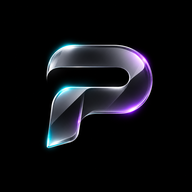
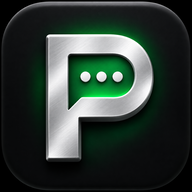
Update web launch page for PURE 0.12.0

diff --git a/index.html b/index.html
@@ -1,28 +1,28 @@
 <!doctype html><html lang="th"><head><meta charset="utf-8"><meta name="viewport" content="width=device-width,initial-scale=1,viewport-fit=cover">
 <title data-i18n="meta.title">PURE — แชต โทร วิดีโอคอล by PureFxAi</title><meta name="description" data-i18n-meta="meta.desc" content="PURE แอป Android สำหรับแชต โทรเสียง วิดีโอคอล สัตว์เลี้ยง 2D และผู้ช่วย AI โดย PureFxAi">
-<link rel="icon" type="image/png" sizes="32x32" href="assets/favicon-32.png"><link rel="apple-touch-icon" href="assets/favicon-180.png"><meta name="theme-color" content="#000000"><meta property="og:title" data-i18n-meta="meta.title" content="PURE — แชต โทร วิดีโอคอล by PureFxAi"><meta property="og:description" data-i18n-meta="pop.p" content="แชต โทรเสียง วิดีโอคอล สัตว์เลี้ยง 2D และผู้ช่วย AI ในแอปเดียว"><meta property="og:image" content="https://call.purefxai.store/assets/og.png"><meta name="twitter:card" content="summary_large_image"><link rel="preconnect" href="https://fonts.googleapis.com"><link href="https://fonts.googleapis.com/css2?family=Prompt:wght@300;400;600;800&display=swap" rel="stylesheet"><link rel="stylesheet" href="style.css?v=6"></head><body>
+<link rel="icon" type="image/png" sizes="32x32" href="assets/favicon-32.png"><link rel="apple-touch-icon" href="assets/favicon-180.png"><meta name="theme-color" content="#000000"><meta property="og:title" data-i18n-meta="meta.title" content="PURE — แชต โทร วิดีโอคอล by PureFxAi"><meta property="og:description" data-i18n-meta="pop.p" content="แชต โทรเสียง วิดีโอคอล สัตว์เลี้ยง 2D และผู้ช่วย AI ในแอปเดียว"><meta property="og:image" content="https://call.purefxai.store/assets/og.png"><meta name="twitter:card" content="summary_large_image"><link rel="preconnect" href="https://fonts.googleapis.com"><link href="https://fonts.googleapis.com/css2?family=Prompt:wght@300;400;600;800&display=swap" rel="stylesheet"><link rel="stylesheet" href="style.css?v=12"></head><body>
 <div id="progress" aria-hidden="true"></div><canvas id="aurora" aria-hidden="true"></canvas><div class="bg"><span class="orb o1"></span><span class="orb o2"></span><span class="orb o3"></span></div>
-<nav class="nav glass"><a class="brand" href="#"><img src="assets/icon-192.png" alt="">PURE</a><div class="links"><a href="#features" data-i18n="nav.features">ฟีเจอร์</a><a href="#install" data-i18n="nav.install">วิธีติดตั้ง</a><a href="#faq" data-i18n="nav.faq">คำถาม</a></div><div class="nav-r"><button id="lang" class="lang" type="button" aria-label="Switch language / เปลี่ยนภาษา"><span data-l="th">TH</span><span data-l="en">EN</span></button><a class="btn sm" href="https://github.com/purefxaidev/purecall-web/releases/download/v0.10.1/PURE-0.10.1.apk" data-i18n="nav.dl">ดาวน์โหลด</a></div></nav>
-<header class="hero"><div class="hero-text reveal"><span class="pill" data-i18n="hero.pill">เวอร์ชัน 0.10.1 · Android 8+</span><h1 data-i18n="hero.h1">คุยใกล้กัน<br><span class="grad">ทุกที่ ทุกเวลา</span></h1><p data-i18n="hero.p">PURE รวมแชต โทรเสียง วิดีโอคอล สัตว์เลี้ยง 2D และผู้ช่วย AI ไว้ในแอปเดียว ส่งข้อความหากันแบบออฟไลน์ผ่าน Wi-Fi หรือ Bluetooth ก็ได้</p><div class="cta"><a class="btn big" href="https://github.com/purefxaidev/purecall-web/releases/download/v0.10.1/PURE-0.10.1.apk"><svg viewBox="0 0 24 24"><path d="M12 3v12m0 0-5-5m5 5 5-5M4 21h16" stroke="currentColor" stroke-width="2.2" fill="none" stroke-linecap="round"/></svg><span data-i18n="hero.cta">ดาวน์โหลด APK ฟรี</span></a><a class="btn ghost" href="#features" data-i18n="hero.more">ดูฟีเจอร์</a></div><small class="muted" data-i18n="hero.note">ไฟล์ PURE-0.10.1.apk · รุ่น release (เซ็นแล้ว) · ติดตั้งเองได้โดยไม่ต้องผ่าน Google Play</small></div>
-<div class="hero-art reveal"><div class="hero-visual"><video class="anim " autoplay muted loop playsinline preload="metadata" poster="assets/anim/pure-call-poster.jpg" width="1280" height="704" aria-hidden="true"><source src="assets/anim/pure-call.webm" type="video/webm"><source src="assets/anim/pure-call.mp4" type="video/mp4"></video></div></div></header>
+<nav class="nav glass"><a class="brand" href="#"><img src="assets/icon-192.png" alt="">PURE</a><div class="links"><a href="#features" data-i18n="nav.features">ฟีเจอร์</a><a href="#install" data-i18n="nav.install">วิธีติดตั้ง</a><a href="#faq" data-i18n="nav.faq">คำถาม</a></div><div class="nav-r"><a class="btn sm web-app-link is-loading" data-web-app href="#web-app" aria-disabled="true"><svg class="web-entry-icon" viewBox="0 0 24 24" aria-hidden="true"><path d="M4 5.5h16v10H4zM8 19h8m-4-3.5V19M8 9h8m-8 3h5"/></svg><span data-web-label data-th="เข้าใช้เว็บ" data-en="Open web app">เข้าใช้เว็บ</span></a><button id="lang" class="lang" type="button" aria-label="Switch language / เปลี่ยนภาษา"><span data-l="th">TH</span><span data-l="en">EN</span></button><a class="btn sm" href="https://github.com/pureaicom-gif/PURECALL/releases/download/v0.12.0/PURE-0.12.0.apk" data-i18n="nav.dl">ดาวน์โหลด</a></div></nav>
+<header class="hero"><div class="hero-text reveal"><span class="pill" data-i18n="hero.pill">เวอร์ชัน 0.12.0 · Android 8+</span><h1 data-i18n="hero.h1">คุยใกล้กัน<br><span class="grad">ทุกที่ ทุกเวลา</span></h1><p data-i18n="hero.p">PURE รวมแชต โทรเสียง วิดีโอคอล สัตว์เลี้ยง 2D และผู้ช่วย AI ไว้ในแอปเดียว ส่งข้อความหากันแบบออฟไลน์ผ่าน Wi-Fi หรือ Bluetooth ก็ได้</p><div class="cta"><a class="btn big web-app-link is-loading" data-web-app href="#web-app" aria-disabled="true"><svg class="web-entry-icon" viewBox="0 0 24 24" aria-hidden="true"><path d="M4 5.5h16v10H4zM8 19h8m-4-3.5V19M8 9h8m-8 3h5"/></svg><span data-web-label data-th="เข้าใช้ PURE บนเว็บ" data-en="Use PURE on the web">เข้าใช้ PURE บนเว็บ</span></a><a class="btn ghost" href="https://github.com/pureaicom-gif/PURECALL/releases/download/v0.12.0/PURE-0.12.0.apk"><svg class="download-icon" viewBox="0 0 24 24" aria-hidden="true"><path d="M12 3v12m0 0-5-5m5 5 5-5M4 21h16"/></svg><span data-i18n="hero.cta">ดาวน์โหลด APK ฟรี</span></a><a class="btn ghost" href="#features" data-i18n="hero.more">ดูฟีเจอร์</a></div><small class="muted" data-i18n="hero.note">ไฟล์ PURE-0.12.0.apk · รุ่น release (เซ็นแล้ว) · ติดตั้งเองได้โดยไม่ต้องผ่าน Google Play</small></div>
+<div class="hero-art reveal"><div class="hero-visual"><video class="anim " autoplay muted loop playsinline preload="metadata" poster="assets/img/pure-hero.webp" width="1280" height="704" aria-hidden="true"><source src="assets/anim/pure-call.webm" type="video/webm"><source src="assets/anim/pure-call.mp4" type="video/mp4"></video></div></div></header>
 <section id="features"><h2 class="reveal" data-i18n="f.h2">ทุกอย่างที่ต้องใช้ <span class="grad">ในแอปเดียว</span></h2><div class="grid">
-<div class="card glass reveal"><i>💬</i><h3 data-i18n="f1.h">แชต &amp; ส่งไฟล์</h3><p data-i18n="f1.p">แชตส่วนตัวและกลุ่ม ส่งไฟล์ สติกเกอร์ และแปลข้อความอัตโนมัติ 8 ภาษา</p></div>
-<div class="card glass reveal"><i>📞</i><h3 data-i18n="f2.h">โทรเสียง &amp; วิดีโอคอล</h3><p data-i18n="f2.p">โทรหาเพื่อนผ่าน WebRTC ทั้งเสียงและวิดีโอ</p></div>
-<div class="card glass reveal"><i>🐾</i><h3 data-i18n="f3.h">สัตว์เลี้ยง 2D</h3><p data-i18n="f3.p">เพื่อนตัวน้อย 16 สายพันธุ์ ทักทายด้วยเสียงและท่าทาง</p></div>
-<div class="card glass reveal"><i>✨</i><h3 data-i18n="f4.h">ผู้ช่วย Gemini AI</h3><p data-i18n="f4.p">ผู้ช่วย AI และคุยด้วยเสียงแบบสด เลือกเปิดใช้เองได้</p></div>
-<div class="card glass reveal"><i>🎨</i><h3 data-i18n="f5.h">Photo Studio</h3><p data-i18n="f5.p">ปรับแสง สี คอนทราสต์ และหมุนรูปบนเครื่องก่อนส่ง</p></div>
-<div class="card glass reveal"><i>🎬</i><h3 data-i18n="f6.h">ไทม์ไลน์ &amp; Reels</h3><p data-i18n="f6.p">โพสต์รูป วิดีโอ Reels กดถูกใจ และคอมเมนต์</p></div>
-<div class="card glass reveal"><i>📷</i><h3 data-i18n="f7.h">แอดเพื่อนด้วย QR</h3><p data-i18n="f7.p">สแกน QR โค้ดเพื่อเพิ่มเพื่อนได้ทันที</p></div>
-<div class="card glass reveal"><i>📡</i><h3 data-i18n="f8.h">ข้อความออฟไลน์</h3><p data-i18n="f8.p">ส่งข้อความเข้ารหัสผ่าน Wi-Fi/ฮอตสปอต หรือ Bluetooth กับเครื่องที่มี PURE</p></div>
-<div class="card glass reveal"><i>🖥</i><h3 data-i18n="f9.h">รันเซิร์ฟเวอร์เองได้</h3><p data-i18n="f9.p">ติดตั้งเซิร์ฟเวอร์ของคุณเองด้วย Docker หรือ Cloudflare Tunnel</p></div></div></section>
+<div class="card glass reveal"><svg class="feature-icon" viewBox="0 0 24 24" aria-hidden="true"><path d="M20 11.5a7.5 7.5 0 0 1-7.5 7.5H6l-3 2v-6a7.5 7.5 0 1 1 17-3.5Z"/><path d="M7 10h9M7 14h6"/></svg><h3 data-i18n="f1.h">แชต &amp; ส่งไฟล์</h3><p data-i18n="f1.p">แชตส่วนตัวและกลุ่ม ส่งไฟล์ สติกเกอร์ และแปลข้อความอัตโนมัติ 8 ภาษา</p></div>
+<div class="card glass reveal"><svg class="feature-icon" viewBox="0 0 24 24" aria-hidden="true"><path d="M7 3H4a1 1 0 0 0-1 1c0 9.4 7.6 17 17 17a1 1 0 0 0 1-1v-3l-5-2-2 3a15 15 0 0 1-7-7l3-2-3-6Z"/></svg><h3 data-i18n="f2.h">โทรเสียง &amp; วิดีโอคอล</h3><p data-i18n="f2.p">โทรหาเพื่อนผ่าน WebRTC ทั้งเสียงและวิดีโอ</p></div>
+<div class="card glass reveal"><svg class="feature-icon" viewBox="0 0 24 24" aria-hidden="true"><path d="M12 20c-3.4 0-6.5-1.2-6.5-3.8 0-2.3 2.8-5.8 6.5-5.8s6.5 3.5 6.5 5.8C18.5 18.8 15.4 20 12 20Z"/><path d="M5.1 11.7c-1.5 0-2.4-1.6-2-3.2.3-1.2 1.2-1.9 2.1-1.7 1.3.3 1.8 2.1 1.2 3.8-.3.7-.7 1.1-1.3 1.1Zm4-2.2c-1.3 0-2-1.8-1.4-3.4.4-1.2 1.4-1.8 2.2-1.4 1.1.5 1.2 2.3.4 3.8-.4.7-.8 1-1.2 1Zm5.8 0c-1.3 0-1.7-2-.7-3.6.7-1.1 1.8-1.4 2.5-.8.9.8.5 2.5-.7 3.7-.5.5-.9.7-1.1.7Zm4 2.2c-1.2 0-1.6-1.8-.8-3.1.6-1 1.6-1.3 2.3-.7.7.7.5 2.1-.4 3.2-.4.4-.8.6-1.1.6Z"/></svg><h3 data-i18n="f3.h">สัตว์เลี้ยง 2D</h3><p data-i18n="f3.p">เพื่อนตัวน้อย 16 สายพันธุ์ ทักทายด้วยเสียงและท่าทาง</p></div>
+<div class="card glass reveal"><svg class="feature-icon" viewBox="0 0 24 24" aria-hidden="true"><rect x="4" y="4" width="16" height="16" rx="4"/><path d="M8 9h8M8 12h5M8 15h3m5-1 1 1 2-3"/></svg><h3 data-i18n="f4.h">ผู้ช่วย PURE AI</h3><p data-i18n="f4.p">ผู้ช่วยอัจฉริยะสำหรับแชต แปลภาษา และช่วยงานในแอป</p></div>
+<div class="card glass reveal"><svg class="feature-icon" viewBox="0 0 24 24" aria-hidden="true"><rect x="3" y="4" width="18" height="16" rx="3"/><circle cx="8" cy="9" r="1.2"/><path d="m5 17 5-5 3 3 2-2 4 4"/></svg><h3 data-i18n="f5.h">Photo Studio</h3><p data-i18n="f5.p">ปรับแสง สี คอนทราสต์ และหมุนรูปบนเครื่องก่อนส่ง</p></div>
+<div class="card glass reveal"><svg class="feature-icon" viewBox="0 0 24 24" aria-hidden="true"><rect x="3" y="5" width="18" height="14" rx="3"/><path d="m10 9 5 3-5 3z"/></svg><h3 data-i18n="f6.h">ไทม์ไลน์ &amp; Reels</h3><p data-i18n="f6.p">โพสต์รูป วิดีโอ Reels กดถูกใจ และคอมเมนต์</p></div>
+<div class="card glass reveal"><svg class="feature-icon" viewBox="0 0 24 24" aria-hidden="true"><path d="M4 4h6v6H4zM14 4h6v6h-6zM4 14h6v6H4zM14 14h2v2h-2zM18 14h2v6h-6v-2"/></svg><h3 data-i18n="f7.h">แอดเพื่อนด้วย QR</h3><p data-i18n="f7.p">สแกน QR โค้ดเพื่อเพิ่มเพื่อนได้ทันที</p></div>
+<div class="card glass reveal"><svg class="feature-icon" viewBox="0 0 24 24" aria-hidden="true"><path d="M5.6 9.6a9 9 0 0 0 0 4.8m3-7.8a13 13 0 0 0 0 10.8m6.8-10.8a13 13 0 0 1 0 10.8m3-7.8a9 9 0 0 1 0 4.8M12 12h.01M12 12l6-6"/></svg><h3 data-i18n="f8.h">ข้อความออฟไลน์</h3><p data-i18n="f8.p">ส่งข้อความเข้ารหัสผ่าน Wi-Fi/ฮอตสปอต หรือ Bluetooth กับเครื่องที่มี PURE</p></div>
+<div class="card glass reveal"><svg class="feature-icon" viewBox="0 0 24 24" aria-hidden="true"><rect x="3" y="4" width="18" height="13" rx="2"/><path d="M8 21h8m-4-4v4M7 8h10m-10 4h10"/></svg><h3 data-i18n="f9.h">รันเซิร์ฟเวอร์เองได้</h3><p data-i18n="f9.p">ติดตั้งเซิร์ฟเวอร์ของคุณเองด้วย Docker หรือ Cloudflare Tunnel</p></div></div></section>
 <section class="showcase">
 <div class="row reveal"><div class="ph wide art" data-label="แชต & โทร"><img src="assets/img/chat.webp" width="1000" height="1000" alt="" loading="lazy"></div><div><h2 data-i18n="s1.h">คุยได้ <span class="grad">ทุกรูปแบบ</span></h2><p data-i18n="s1.p">ข้อความ ไฟล์ สติกเกอร์ เสียง และวิดีโอ ข้อความที่ส่งไม่ออกตอนเน็ตหลุดจะรอส่งให้เองเมื่อเน็ตกลับมา</p></div></div>
 <div class="row rev reveal"><div class="ph wide art" data-label="สัตว์เลี้ยง 2D"><video class="anim " autoplay muted loop playsinline preload="metadata" poster="assets/anim/pure-cat-poster.jpg"   aria-hidden="true"><source src="assets/anim/pure-cat.webm" type="video/webm"><source src="assets/anim/pure-cat.mp4" type="video/mp4"></video></div><div><h2 data-i18n="s2.h">เพื่อนตัวน้อย <span class="grad">ที่ทักทายคุณ</span></h2><p data-i18n="s2.p">เลือกสัตว์เลี้ยงจาก 16 สายพันธุ์ มีเสียงและท่าทางทักทาย</p></div></div>
-<div class="row reveal"><div class="ph wide art" data-label="Gemini AI"><img src="assets/img/ai.webp" width="1000" height="1000" alt="" loading="lazy"></div><div><h2 data-i18n="s3.h">AI <span class="grad">เมื่อคุณต้องการ</span></h2><p data-i18n="s3.p">Gemini ช่วยตอบ แปล และปรับรูป ภาพจะส่งให้ Google เฉพาะเมื่อคุณกดใช้เท่านั้น</p></div></div>
+<div class="row reveal"><div class="ph wide art" data-label="PURE AI"><img src="assets/img/ai.webp" width="1000" height="1000" alt="" loading="lazy"></div><div><h2 data-i18n="s3.h">AI <span class="grad">เมื่อคุณต้องการ</span></h2><p data-i18n="s3.p">ผู้ช่วย PURE ช่วยตอบ แปล และทำงานตามบริบทที่คุณเลือกใช้</p></div></div>
 <div class="row rev reveal"><div class="ph wide art" data-label="ใกล้กัน ไม่ต้องใช้เน็ต"><img src="assets/img/nearby.webp" width="1000" height="1000" alt="" loading="lazy"></div><div><h2 data-i18n="s4.h">ไม่มีเน็ต <span class="grad">ก็คุยได้</span></h2><p data-i18n="s4.p">ส่งข้อความเข้ารหัสหาคนใกล้ๆ ผ่าน Wi-Fi หรือ Bluetooth</p></div></div></section>
-<section id="soon"><h2 class="reveal" data-i18n="soon.h2">ใหม่ใน <span class="grad">PURE 0.10</span></h2><p class="center muted reveal" data-i18n="soon.p">ฟีเจอร์ใหม่ในรุ่น 0.10.1</p><div class="soon-grid">
-<div class="soon-card glass reveal"><span class="pill" data-i18n="soon.badge">ใหม่</span><div class="soon-img"><img src="assets/img/native-chats.webp" width="720" height="1560" alt="หน้าแชตแบบ native ของ PURE 0.10.1" loading="lazy"></div><h3 data-i18n="soon1.h">แอป native ทั้งตัว</h3><p data-i18n="soon1.p">แชต เพื่อน ไทม์ไลน์ โปรไฟล์ เขียนใหม่ด้วย Jetpack Compose เปิดไวและลื่นกว่าเดิม</p></div>
-<div class="soon-card glass reveal"><span class="pill" data-i18n="soon.badge">ใหม่</span><div class="soon-img"><img src="assets/img/clean-layout.webp" width="720" height="1599" alt="หน้าแชตเลย์เอาต์ใหม่ไม่ซ้อนกัน" loading="lazy"></div><h3 data-i18n="soon2.h">หน้าจอสะอาด ไม่ซ้อนกัน</h3><p data-i18n="soon2.p">ทางลัด AI รวมเป็นแถวเดียว ตั้งค่าภาษาและการแจ้งเตือนย้ายไปหน้าตั้งค่า เชื่อมต่อเซิร์ฟเวอร์อัตโนมัติ</p></div></div></section>
+<section id="soon"><h2 class="reveal" data-i18n="soon.h2">ใหม่ใน <span class="grad">PURE 0.12</span></h2><p class="center muted reveal" data-i18n="soon.p">ฟีเจอร์ใหม่ในรุ่น 0.12.0</p><div class="soon-grid">
+<div class="soon-card glass reveal"><span class="pill" data-i18n="soon.badge">ใหม่</span><div class="soon-img"><img src="assets/img/native-chats.webp" width="720" height="1560" alt="หน้าแชตแบบ native ของ PURE 0.12.0" loading="lazy"></div><h3 data-i18n="soon1.h">แบรนด์ PURE โฉมใหม่</h3><p data-i18n="soon1.p">ปรับไอคอนแอปและหน้าเว็บให้เป็นภาพลักษณ์ PURE ชุดเดียวกัน</p></div>
+<div class="soon-card glass reveal"><span class="pill" data-i18n="soon.badge">ใหม่</span><div class="soon-img"><img src="assets/img/clean-layout.webp" width="720" height="1599" alt="หน้าแชตเลย์เอาต์ใหม่ไม่ซ้อนกัน" loading="lazy"></div><h3 data-i18n="soon2.h">วิดีโอ AI และเสียงพูด</h3><p data-i18n="soon2.p">เพิ่มขั้นตอนสร้างวิดีโอด้วย ComfyUI ฝั่งเซิร์ฟเวอร์ และปรับระบบสำรองเสียงพูดให้เสถียรขึ้น</p></div></div></section>
 <section id="pets"><h2 class="reveal" data-i18n="pet.h2">น้องแมว PURE <span class="grad">มีชีวิต</span></h2><p class="center muted reveal" data-i18n="pet.p">สัตว์เลี้ยงที่ทักทาย ตอบสนองเมื่อมีสายเข้า และเติบโตไปกับคุณ</p><div class="pet-grid"><figure class="pet-card reveal"><video class="anim pet-vid" muted loop playsinline preload="none" poster="assets/pets/pet-idle-poster.jpg?v=2" width="540" height="540" aria-hidden="true"><source src="assets/pets/pet-idle.webm?v=2" type="video/webm"><source src="assets/pets/pet-idle.mp4?v=2" type="video/mp4"></video><figcaption data-i18n="pet.idle">เล่นสบายๆ</figcaption></figure><figure class="pet-card reveal"><video class="anim pet-vid" muted loop playsinline preload="none" poster="assets/pets/pet-jump-poster.jpg?v=2" width="540" height="540" aria-hidden="true"><source src="assets/pets/pet-jump.webm?v=2" type="video/webm"><source src="assets/pets/pet-jump.mp4?v=2" type="video/mp4"></video><figcaption data-i18n="pet.jump">ดีใจกระโดด</figcaption></figure><figure class="pet-card reveal"><video class="anim pet-vid" muted loop playsinline preload="none" poster="assets/pets/pet-wave-poster.jpg?v=2" width="540" height="540" aria-hidden="true"><source src="assets/pets/pet-wave.webm?v=2" type="video/webm"><source src="assets/pets/pet-wave.mp4?v=2" type="video/mp4"></video><figcaption data-i18n="pet.wave">โบกมือทักทาย</figcaption></figure><figure class="pet-card reveal"><video class="anim pet-vid" muted loop playsinline preload="none" poster="assets/pets/pet-call-poster.jpg?v=2" width="540" height="540" aria-hidden="true"><source src="assets/pets/pet-call.webm?v=2" type="video/webm"><source src="assets/pets/pet-call.mp4?v=2" type="video/mp4"></video><figcaption data-i18n="pet.call">มีสายเข้า!</figcaption></figure><figure class="pet-card reveal"><video class="anim pet-vid" muted loop playsinline preload="none" poster="assets/pets/pet-sleep-poster.jpg?v=2" width="540" height="540" aria-hidden="true"><source src="assets/pets/pet-sleep.webm?v=2" type="video/webm"><source src="assets/pets/pet-sleep.mp4?v=2" type="video/mp4"></video><figcaption data-i18n="pet.sleep">หลับปุ๋ย</figcaption></figure><figure class="pet-card reveal"><video class="anim pet-vid" muted loop playsinline preload="none" poster="assets/pets/pet-evolve-poster.jpg?v=2" width="540" height="540" aria-hidden="true"><source src="assets/pets/pet-evolve.webm?v=2" type="video/webm"><source src="assets/pets/pet-evolve.mp4?v=2" type="video/mp4"></video><figcaption data-i18n="pet.evolve">วิวัฒนาการ</figcaption></figure></div></section>
 <section id="install"><h2 class="reveal" data-i18n="i.h2">ติดตั้งใน <span class="grad">3 ขั้นตอน</span></h2><div class="steps">
 <div class="step glass reveal"><b>1</b><h3 data-i18n="i1.h">ดาวน์โหลด APK</h3><p data-i18n="i1.p">กดปุ่มดาวน์โหลดบนมือถือ Android 8 ขึ้นไป</p></div>
@@ -34,12 +34,12 @@
 <details class="glass reveal"><summary data-i18n="q3.q">ปลอดภัยไหม?</summary><p data-i18n="q3.a">ข้อความออฟไลน์เข้ารหัส และภาพจะไม่ถูกส่งให้ AI เว้นแต่คุณกดใช้เอง</p></details>
 <details class="glass reveal"><summary data-i18n="q4.q">ต้องมีเซิร์ฟเวอร์ไหม?</summary><p data-i18n="q4.a">แอปเชื่อมต่อเซิร์ฟเวอร์ PURE สำหรับแชตและโทร คุณรันเซิร์ฟเวอร์เองได้ ส่วนข้อความใกล้ตัวผ่าน Wi-Fi/Bluetooth ใช้ได้โดยไม่ต้องมีอินเทอร์เน็ต</p></details>
 <details class="glass reveal"><summary data-i18n="q5.q">รองรับ iPhone ไหม?</summary><p data-i18n="q5.a">ตอนนี้มีเฉพาะ Android 8 ขึ้นไป</p></details></div></section>
-<section class="final glass reveal"><div class="logo-loop"><video class="anim " autoplay muted loop playsinline preload="metadata" poster="assets/anim/pure-logo-poster.jpg" width="640" height="640" aria-hidden="true"><source src="assets/anim/pure-logo.webm" type="video/webm"><source src="assets/anim/pure-logo.mp4" type="video/mp4"></video></div><h2 data-i18n="fin.h">พร้อมคุยแล้วหรือยัง?</h2><a class="btn big" href="https://github.com/purefxaidev/purecall-web/releases/download/v0.10.1/PURE-0.10.1.apk" data-i18n="fin.cta">ดาวน์โหลด PURE 0.10.1</a></section>
+<section class="final glass reveal"><div class="logo-loop"><video class="anim " autoplay muted loop playsinline preload="metadata" poster="assets/anim/pure-logo-poster.jpg" width="640" height="640" aria-hidden="true"><source src="assets/anim/pure-logo.webm" type="video/webm"><source src="assets/anim/pure-logo.mp4" type="video/mp4"></video></div><h2 data-i18n="fin.h">พร้อมคุยแล้วหรือยัง?</h2><a class="btn big" href="https://github.com/pureaicom-gif/PURECALL/releases/download/v0.12.0/PURE-0.12.0.apk" data-i18n="fin.cta">ดาวน์โหลด PURE 0.12.0</a></section>
 <footer><img src="assets/icon-192.png" alt=""> © PureFxAi · PURE</footer>
 <div id="promo" class="promo" hidden><div class="promo-back" data-close></div><div class="promo-box glass" role="dialog" aria-modal="true" aria-labelledby="promo-h" tabindex="-1">
 <button class="promo-x" type="button" data-close data-i18n-aria="pop.close" aria-label="ปิด">×</button>
-<div class="promo-art"><img src="assets/img/hero.webp" alt="" width="1600" height="900" loading="lazy"><img class="promo-logo" src="assets/favicon-512.png" alt="PURE" width="512" height="512"></div>
+<div class="promo-art"><img src="assets/img/pure-hero.webp" alt="" width="1280" height="900" loading="lazy"><img class="promo-logo" src="assets/favicon-512.png" alt="PURE" width="512" height="512"></div>
 <span class="pill" data-i18n="pop.badge">ฟรีสำหรับ Android</span><h2 id="promo-h" data-i18n="pop.h">ดาวน์โหลด PURE ฟรี</h2><p data-i18n="pop.p">แชต โทรเสียง วิดีโอคอล สัตว์เลี้ยง 2D และผู้ช่วย AI ในแอปเดียว ติดตั้งจากไฟล์ APK ได้เลย</p>
-<div class="promo-cta"><a class="btn" href="https://github.com/purefxaidev/purecall-web/releases/download/v0.10.1/PURE-0.10.1.apk" data-i18n="pop.cta">ดาวน์โหลด APK</a><button class="btn ghost" type="button" data-close data-i18n="pop.later">ไว้ทีหลัง</button></div>
-<a class="promo-soon" href="#soon" data-close data-i18n="pop.soon">ใหม่ใน 0.10: แอป native เร็วขึ้น หน้าจอใหม่ทั้งหมด</a><small class="muted" data-i18n="pop.note">รุ่น release (เซ็นแล้ว) · Android 8+</small></div></div>
-<script src="i18n.js?v=6"></script><script src="main.js?v=6"></script><script src="ads.js?v=6"></script><script src="guide.js?v=6"></script><script src="pets.js?v=2"></script></body></html>
+<div class="promo-cta"><a class="btn web-app-link is-loading" data-web-app href="#web-app" aria-disabled="true"><span data-web-label data-th="เข้าใช้เว็บ" data-en="Open web app">เข้าใช้เว็บ</span></a><a class="btn" href="https://github.com/pureaicom-gif/PURECALL/releases/download/v0.12.0/PURE-0.12.0.apk" data-i18n="pop.cta">ดาวน์โหลด APK</a><button class="btn ghost" type="button" data-close data-i18n="pop.later">ไว้ทีหลัง</button></div>
+<a class="promo-soon" href="#soon" data-close data-i18n="pop.soon">ใหม่ใน 0.12: ไอคอน PURE ใหม่ วิดีโอ AI และระบบเสียงพูดที่เสถียรขึ้น</a><small class="muted" data-i18n="pop.note">รุ่น release (เซ็นแล้ว) · Android 8+</small></div></div>
+<script src="i18n.js?v=12"></script><script src="main.js?v=12"></script><script src="web-entry.js?v=12"></script><script src="ads.js?v=12"></script><script src="guide.js?v=12"></script><script src="pets.js?v=2"></script></body></html>

diff --git a/i18n.js b/i18n.js
@@ -1,1 +1,1 @@
-window.I18N={"th": {"nav.features": "ฟีเจอร์", "nav.install": "วิธีติดตั้ง", "nav.faq": "คำถาม", "nav.dl": "ดาวน์โหลด", "hero.pill": "เวอร์ชัน 0.10.1 · Android 8+", "hero.h1": "คุยใกล้กัน<br><span class=\"grad\">ทุกที่ ทุกเวลา</span>", "hero.p": "PURE รวมแชต โทรเสียง วิดีโอคอล สัตว์เลี้ยง 2D และผู้ช่วย AI ไว้ในแอปเดียว ส่งข้อความหากันแบบออฟไลน์ผ่าน Wi-Fi หรือ Bluetooth ก็ได้", "hero.cta": "ดาวน์โหลด APK ฟรี", "hero.more": "ดูฟีเจอร์", "hero.note": "ไฟล์ PURE-0.10.1.apk · รุ่น release (เซ็นแล้ว) · ติดตั้งเองได้โดยไม่ต้องผ่าน Google Play", "f.h2": "ทุกอย่างที่ต้องใช้ <span class=\"grad\">ในแอปเดียว</span>", "f1.h": "แชต &amp; ส่งไฟล์", "f1.p": "แชตส่วนตัวและกลุ่ม ส่งไฟล์ สติกเกอร์ และแปลข้อความอัตโนมัติ 8 ภาษา", "f2.h": "โทรเสียง &amp; วิดีโอคอล", "f2.p": "โทรหาเพื่อนผ่าน WebRTC ทั้งเสียงและวิดีโอ", "f3.h": "สัตว์เลี้ยง 2D", "f3.p": "เพื่อนตัวน้อย 16 สายพันธุ์ ทักทายด้วยเสียงและท่าทาง", "f4.h": "ผู้ช่วย Gemini AI", "f4.p": "ผู้ช่วย AI และคุยด้วยเสียงแบบสด เลือกเปิดใช้เองได้", "f5.h": "Photo Studio", "f5.p": "ปรับแสง สี คอนทราสต์ และหมุนรูปบนเครื่องก่อนส่ง", "f6.h": "ไทม์ไลน์ &amp; Reels", "f6.p": "โพสต์รูป วิดีโอ Reels กดถูกใจ และคอมเมนต์", "f7.h": "แอดเพื่อนด้วย QR", "f7.p": "สแกน QR โค้ดเพื่อเพิ่มเพื่อนได้ทันที", "f8.h": "ข้อความออฟไลน์", "f8.p": "ส่งข้อความเข้ารหัสผ่าน Wi-Fi/ฮอตสปอต หรือ Bluetooth กับเครื่องที่มี PURE", "f9.h": "รันเซิร์ฟเวอร์เองได้", "f9.p": "ติดตั้งเซิร์ฟเวอร์ของคุณเองด้วย Docker หรือ Cloudflare Tunnel", "s1.h": "คุยได้ <span class=\"grad\">ทุกรูปแบบ</span>", "s1.p": "ข้อความ ไฟล์ สติกเกอร์ เสียง และวิดีโอ ข้อความที่ส่งไม่ออกตอนเน็ตหลุดจะรอส่งให้เองเมื่อเน็ตกลับมา", "s2.h": "เพื่อนตัวน้อย <span class=\"grad\">ที่ทักทายคุณ</span>", "s2.p": "เลือกสัตว์เลี้ยงจาก 16 สายพันธุ์ มีเสียงและท่าทางทักทาย", "s3.h": "AI <span class=\"grad\">เมื่อคุณต้องการ</span>", "s3.p": "Gemini ช่วยตอบ แปล และปรับรูป ภาพจะส่งให้ Google เฉพาะเมื่อคุณกดใช้เท่านั้น", "s4.h": "ไม่มีเน็ต <span class=\"grad\">ก็คุยได้</span>", "s4.p": "ส่งข้อความเข้ารหัสหาคนใกล้ๆ ผ่าน Wi-Fi หรือ Bluetooth", "soon.h2": "ใหม่ใน <span class=\"grad\">PURE 0.10</span>", "soon.p": "ฟีเจอร์ใหม่ในรุ่น 0.10.1", "soon.badge": "ใหม่", "soon1.h": "แอป native ทั้งตัว", "soon1.p": "แชต เพื่อน ไทม์ไลน์ โปรไฟล์ เขียนใหม่ด้วย Jetpack Compose เปิดไวและลื่นกว่าเดิม", "soon2.h": "หน้าจอสะอาด ไม่ซ้อนกัน", "soon2.p": "ทางลัด AI รวมเป็นแถวเดียว ตั้งค่าภาษาและการแจ้งเตือนย้ายไปหน้าตั้งค่า เชื่อมต่อเซิร์ฟเวอร์อัตโนมัติ", "i.h2": "ติดตั้งใน <span class=\"grad\">3 ขั้นตอน</span>", "i1.h": "ดาวน์โหลด APK", "i1.p": "กดปุ่มดาวน์โหลดบนมือถือ Android 8 ขึ้นไป", "i2.h": "อนุญาตแหล่งที่ไม่รู้จัก", "i2.p": "ตั้งค่า › แอป › เบราว์เซอร์ที่ใช้ › ติดตั้งแอปที่ไม่รู้จัก › อนุญาต", "i3.h": "ติดตั้งและเข้าใช้", "i3.p": "เปิดไฟล์ กดติดตั้ง แล้วใส่ที่อยู่เซิร์ฟเวอร์ PURE เพื่อเริ่มใช้งาน", "q.h2": "คำถามที่พบบ่อย", "q1.q": "PURE ฟรีไหม?", "q1.a": "ดาวน์โหลดและติดตั้งได้ฟรี ฟีเจอร์ AI ต้องตั้งค่า Gemini ที่เซิร์ฟเวอร์", "q2.q": "ทำไมไม่มีใน Google Play?", "q2.a": "ตอนนี้เป็นรุ่นทดสอบ แจกเป็นไฟล์ APK โดยตรง", "q3.q": "ปลอดภัยไหม?", "q3.a": "ข้อความออฟไลน์เข้ารหัส และภาพจะไม่ถูกส่งให้ AI เว้นแต่คุณกดใช้เอง", "q4.q": "ต้องมีเซิร์ฟเวอร์ไหม?", "q4.a": "แอปเชื่อมต่อเซิร์ฟเวอร์ PURE สำหรับแชตและโทร คุณรันเซิร์ฟเวอร์เองได้ ส่วนข้อความใกล้ตัวผ่าน Wi-Fi/Bluetooth ใช้ได้โดยไม่ต้องมีอินเทอร์เน็ต", "q5.q": "รองรับ iPhone ไหม?", "q5.a": "ตอนนี้มีเฉพาะ Android 8 ขึ้นไป", "fin.h": "พร้อมคุยแล้วหรือยัง?", "fin.cta": "ดาวน์โหลด PURE 0.10.1", "meta.title": "PURE — แชต โทร วิดีโอคอล by PureFxAi", "meta.desc": "PURE แอป Android สำหรับแชต โทรเสียง วิดีโอคอล สัตว์เลี้ยง 2D และผู้ช่วย AI โดย PureFxAi", "pop.badge": "ฟรีสำหรับ Android", "pop.h": "ดาวน์โหลด PURE ฟรี", "pop.p": "แชต โทรเสียง วิดีโอคอล สัตว์เลี้ยง 2D และผู้ช่วย AI ในแอปเดียว ติดตั้งจากไฟล์ APK ได้เลย", "pop.cta": "ดาวน์โหลด APK", "pop.later": "ไว้ทีหลัง", "pop.soon": "ใหม่ใน 0.10: แอป native เร็วขึ้น หน้าจอใหม่ทั้งหมด", "pop.close": "ปิด", "pop.note": "รุ่น release (เซ็นแล้ว) · Android 8+", "pet.h2": "น้องแมว PURE <span class=\"grad\">มีชีวิต</span>", "pet.p": "สัตว์เลี้ยงที่ทักทาย ตอบสนองเมื่อมีสายเข้า และเติบโตไปกับคุณ", "pet.idle": "เล่นสบายๆ", "pet.jump": "ดีใจกระโดด", "pet.wave": "โบกมือทักทาย", "pet.call": "มีสายเข้า!", "pet.sleep": "หลับปุ๋ย", "pet.evolve": "วิวัฒนาการ"}, "en": {"nav.features": "Features", "nav.install": "Install", "nav.faq": "FAQ", "nav.dl": "Download", "hero.pill": "Version 0.10.1 · Android 8+", "hero.h1": "Stay close<br><span class=\"grad\">anywhere, anytime</span>", "hero.p": "PURE brings chat, voice calls, video calls, 2D pets and an AI assistant together in one app. You can even message each other offline over Wi-Fi or Bluetooth.", "hero.cta": "Download free APK", "hero.more": "See features", "hero.note": "PURE-0.10.1.apk · signed release build · install directly, no Google Play needed", "f.h2": "Everything you need <span class=\"grad\">in one app</span>", "f1.h": "Chat &amp; files", "f1.p": "Private and group chats, file sharing, stickers and automatic translation in 8 languages", "f2.h": "Voice &amp; video calls", "f2.p": "Call friends with voice or video over WebRTC", "f3.h": "2D pets", "f3.p": "16 little companions that greet you with sounds and animations", "f4.h": "Gemini AI assistant", "f4.p": "An AI assistant with live voice chat, opt-in only", "f5.h": "Photo Studio", "f5.p": "Adjust brightness, color, contrast and rotation on-device before sending", "f6.h": "Timeline &amp; Reels", "f6.p": "Post photos, videos and Reels, with likes and comments", "f7.h": "Add friends by QR", "f7.p": "Scan a QR code to add a friend instantly", "f8.h": "Offline messages", "f8.p": "Send encrypted messages over Wi-Fi/hotspot or Bluetooth to nearby devices running PURE", "f9.h": "Self-hostable server", "f9.p": "Run your own server with Docker or Cloudflare Tunnel", "s1.h": "Talk <span class=\"grad\">your way</span>", "s1.p": "Text, files, stickers, voice and video. Messages that fail while you are offline are sent automatically when you reconnect.", "s2.h": "A little friend <span class=\"grad\">who says hi</span>", "s2.p": "Pick from 16 pets, each with its own greeting sounds and moves", "s3.h": "AI <span class=\"grad\">when you want it</span>", "s3.p": "Gemini helps you reply, translate and edit photos. Images are sent to Google only when you choose to use it.", "s4.h": "No internet? <span class=\"grad\">Still talk</span>", "s4.p": "Send encrypted messages to people nearby over Wi-Fi or Bluetooth", "soon.h2": "New in <span class=\"grad\">PURE 0.10</span>", "soon.p": "New features in 0.10.1", "soon.badge": "New", "soon1.h": "Fully native app", "soon1.p": "Chats, friends, timeline and profile rebuilt in Jetpack Compose — faster launch, smoother scrolling", "soon2.h": "Clean, uncluttered screens", "soon2.p": "AI shortcuts in one compact row, language & notifications moved to Settings, automatic server connection", "i.h2": "Install in <span class=\"grad\">3 steps</span>", "i1.h": "Download the APK", "i1.p": "Tap Download on a phone running Android 8 or later", "i2.h": "Allow unknown sources", "i2.p": "Settings › Apps › your browser › Install unknown apps › Allow", "i3.h": "Install and sign in", "i3.p": "Open the file, tap Install, then enter a PURE server address to get started", "q.h2": "FAQ", "q1.q": "Is PURE free?", "q1.a": "Yes, it is free to download and install. AI features need Gemini configured on the server.", "q2.q": "Why isn't it on Google Play?", "q2.a": "It is a test build for now, distributed directly as an APK.", "q3.q": "Is it safe?", "q3.a": "Offline messages are encrypted, and images are never sent to the AI unless you choose to.", "q4.q": "Do I need a server?", "q4.a": "The app connects to a PURE server for chat and calls, and you can run your own. Nearby messaging over Wi-Fi/Bluetooth works without internet.", "q5.q": "Does it support iPhone?", "q5.a": "Not yet. Android 8 and later only for now.", "fin.h": "Ready to talk?", "fin.cta": "Download PURE 0.10.1", "meta.title": "PURE — chat, voice & video calls by PureFxAi", "meta.desc": "PURE is an Android app for chat, voice and video calls, 2D pets and an AI assistant, by PureFxAi", "pop.badge": "Free for Android", "pop.h": "Download PURE free", "pop.p": "Chat, voice and video calls, 2D pets and an AI assistant in one app. Install straight from the APK.", "pop.cta": "Download APK", "pop.later": "Maybe later", "pop.soon": "New in 0.10: faster native app, all-new screens", "pop.close": "Close", "pop.note": "Signed release build · Android 8+", "pet.h2": "Your PURE cat <span class=\"grad\">comes alive</span>", "pet.p": "A pet that says hi, reacts to incoming calls and grows with you", "pet.idle": "Chilling", "pet.jump": "Happy jump", "pet.wave": "Says hi", "pet.call": "Incoming call!", "pet.sleep": "Nap time", "pet.evolve": "Evolves & grows"}};
+window.I18N={"th":{"nav.features":"ฟีเจอร์","nav.install":"วิธีติดตั้ง","nav.faq":"คำถาม","nav.dl":"ดาวน์โหลด","hero.pill":"เวอร์ชัน 0.12.0 · Android 8+","hero.h1":"คุยใกล้กัน<br><span class=\"grad\">ทุกที่ ทุกเวลา</span>","hero.p":"PURE รวมแชต โทรเสียง วิดีโอคอล สัตว์เลี้ยง 2D และผู้ช่วย AI ไว้ในแอปเดียว ส่งข้อความหากันแบบออฟไลน์ผ่าน Wi-Fi หรือ Bluetooth ก็ได้","hero.cta":"ดาวน์โหลด APK ฟรี","hero.more":"ดูฟีเจอร์","hero.note":"ไฟล์ PURE-0.12.0.apk · รุ่น release · ดาวน์โหลดจาก GitHub","f.h2":"ทุกอย่างที่ต้องใช้ <span class=\"grad\">ในแอปเดียว</span>","f1.h":"แชต &amp; ส่งไฟล์","f1.p":"แชตส่วนตัวและกลุ่ม ส่งไฟล์ สติกเกอร์ และแปลข้อความอัตโนมัติ 8 ภาษา","f2.h":"โทรเสียง &amp; วิดีโอคอล","f2.p":"โทรหาเพื่อนผ่าน WebRTC ทั้งเสียงและวิดีโอ","f3.h":"สัตว์เลี้ยง 2D","f3.p":"เพื่อนตัวน้อย 16 สายพันธุ์ ทักทายด้วยเสียงและท่าทาง","f4.h":"ผู้ช่วย PURE AI","f4.p":"ผู้ช่วยอัจฉริยะสำหรับแชต แปลภาษา และช่วยงานในแอป","f5.h":"Photo Studio","f5.p":"ปรับแสง สี คอนทราสต์ และหมุนรูปบนเครื่องก่อนส่ง","f6.h":"ไทม์ไลน์ &amp; Reels","f6.p":"โพสต์รูป วิดีโอ Reels กดถูกใจ และคอมเมนต์","f7.h":"แอดเพื่อนด้วย QR","f7.p":"สแกน QR โค้ดเพื่อเพิ่มเพื่อนได้ทันที","f8.h":"ข้อความออฟไลน์","f8.p":"ส่งข้อความเข้ารหัสผ่าน Wi-Fi/ฮอตสปอต หรือ Bluetooth กับเครื่องที่มี PURE","f9.h":"รันเซิร์ฟเวอร์เองได้","f9.p":"ติดตั้งเซิร์ฟเวอร์ของคุณเองด้วย Docker หรือ Cloudflare Tunnel","s1.h":"คุยได้ <span class=\"grad\">ทุกรูปแบบ</span>","s1.p":"ข้อความ ไฟล์ สติกเกอร์ เสียง และวิดีโอ ข้อความที่ส่งไม่ออกตอนเน็ตหลุดจะรอส่งให้เองเมื่อเน็ตกลับมา","s2.h":"เพื่อนตัวน้อย <span class=\"grad\">ที่ทักทายคุณ</span>","s2.p":"เลือกสัตว์เลี้ยงจาก 16 สายพันธุ์ มีเสียงและท่าทางทักทาย","s3.h":"AI จาก PURE","s3.p":"ผู้ช่วย PURE ช่วยตอบ แปล และทำงานตามบริบทที่คุณเลือกใช้","s4.h":"ไม่มีเน็ต <span class=\"grad\">ก็คุยได้</span>","s4.p":"ส่งข้อความเข้ารหัสหาคนใกล้ๆ ผ่าน Wi-Fi หรือ Bluetooth","soon.h2":"ใหม่ใน <span class=\"grad\">PURE 0.12</span>","soon.p":"ฟีเจอร์ใหม่ในรุ่น 0.12.0","soon.badge":"ใหม่","soon1.h":"แบรนด์ PURE โฉมใหม่","soon1.p":"ปรับไอคอนแอปและหน้าเว็บให้เป็นภาพลักษณ์ PURE ชุดเดียวกัน","soon2.h":"วิดีโอ AI และเสียงพูด","soon2.p":"เพิ่มขั้นตอนสร้างวิดีโอด้วย ComfyUI ฝั่งเซิร์ฟเวอร์ และปรับระบบสำรองเสียงพูดให้เสถียรขึ้น","i.h2":"ติดตั้งใน <span class=\"grad\">3 ขั้นตอน</span>","i1.h":"ดาวน์โหลด APK","i1.p":"กดปุ่มดาวน์โหลดบนมือถือ Android 8 ขึ้นไป","i2.h":"อนุญาตแหล่งที่ไม่รู้จัก","i2.p":"ตั้งค่า › แอป › เบราว์เซอร์ที่ใช้ › ติดตั้งแอปที่ไม่รู้จัก › อนุญาต","i3.h":"ติดตั้งและเข้าใช้","i3.p":"เปิดไฟล์ กดติดตั้ง แล้วใส่ที่อยู่เซิร์ฟเวอร์ PURE เพื่อเริ่มใช้งาน","q.h2":"คำถามที่พบบ่อย","q1.q":"PURE ฟรีไหม?","q1.a":"ดาวน์โหลดและติดตั้งได้ฟรี ฟีเจอร์ AI ใช้งานเมื่อเซิร์ฟเวอร์ PURE ตั้งค่าบริการ AI ไว้แล้ว","q2.q":"ทำไมไม่มีใน Google Play?","q2.a":"ตอนนี้เป็นรุ่นทดสอบ แจกเป็นไฟล์ APK โดยตรง","q3.q":"ปลอดภัยไหม?","q3.a":"ข้อความออฟไลน์เข้ารหัส และภาพจะไม่ถูกส่งให้ AI เว้นแต่คุณกดใช้เอง","q4.q":"ต้องมีเซิร์ฟเวอร์ไหม?","q4.a":"แอปเชื่อมต่อเซิร์ฟเวอร์ PURE สำหรับแชตและโทร คุณรันเซิร์ฟเวอร์เองได้ ส่วนข้อความใกล้ตัวผ่าน Wi-Fi/Bluetooth ใช้ได้โดยไม่ต้องมีอินเทอร์เน็ต","q5.q":"รองรับ iPhone ไหม?","q5.a":"ตอนนี้มีเฉพาะ Android 8 ขึ้นไป","fin.h":"พร้อมคุยแล้วหรือยัง?","fin.cta":"ดาวน์โหลด PURE 0.12.0","meta.title":"PURE — แชต โทร วิดีโอคอล by PureFxAi","meta.desc":"PURE แอป Android สำหรับแชต โทรเสียง วิดีโอคอล สัตว์เลี้ยง 2D และผู้ช่วย AI โดย PureFxAi","pop.badge":"ฟรีสำหรับ Android","pop.h":"ดาวน์โหลด PURE ฟรี","pop.p":"แชต โทรเสียง วิดีโอคอล สัตว์เลี้ยง 2D และผู้ช่วย AI ในแอปเดียว ติดตั้งจากไฟล์ APK ได้เลย","pop.cta":"ดาวน์โหลด APK","pop.later":"ไว้ทีหลัง","pop.soon":"ใหม่ใน 0.12: ไอคอน PURE ใหม่ วิดีโอ AI และระบบเสียงพูดที่เสถียรขึ้น","pop.close":"ปิด","pop.note":"รุ่น release (เซ็นแล้ว) · Android 8+","pet.h2":"น้องแมว PURE <span class=\"grad\">มีชีวิต</span>","pet.p":"สัตว์เลี้ยงที่ทักทาย ตอบสนองเมื่อมีสายเข้า และเติบโตไปกับคุณ","pet.idle":"เล่นสบายๆ","pet.jump":"ดีใจกระโดด","pet.wave":"โบกมือทักทาย","pet.call":"มีสายเข้า!","pet.sleep":"หลับปุ๋ย","pet.evolve":"วิวัฒนาการ","nav.web":"เข้าใช้เว็บ","hero.web":"เข้าใช้ PURE บนเว็บ","nav.webUnavailable":"เว็บแอปยังไม่พร้อม","hero.webUnavailable":"ยังเชื่อมต่อเว็บแอปไม่ได้"},"en":{"nav.features":"Features","nav.install":"Install","nav.faq":"FAQ","nav.dl":"Download","hero.pill":"Version 0.12.0 · Android 8+","hero.h1":"Stay close<br><span class=\"grad\">anywhere, anytime</span>","hero.p":"PURE brings chat, voice calls, video calls, 2D pets and an AI assistant together in one app. You can even message each other offline over Wi-Fi or Bluetooth.","hero.cta":"Download free APK","hero.more":"See features","hero.note":"PURE-0.12.0.apk · GitHub release build","f.h2":"Everything you need <span class=\"grad\">in one app</span>","f1.h":"Chat &amp; files","f1.p":"Private and group chats, file sharing, stickers and automatic translation in 8 languages","f2.h":"Voice &amp; video calls","f2.p":"Call friends with voice or video over WebRTC","f3.h":"2D pets","f3.p":"16 little companions that greet you with sounds and animations","f4.h":"PURE AI assistant","f4.p":"An intelligent assistant for chat, translation and everyday tasks","f5.h":"Photo Studio","f5.p":"Adjust brightness, color, contrast and rotation on-device before sending","f6.h":"Timeline &amp; Reels","f6.p":"Post photos, videos and Reels, with likes and comments","f7.h":"Add friends by QR","f7.p":"Scan a QR code to add a friend instantly","f8.h":"Offline messages","f8.p":"Send encrypted messages over Wi-Fi/hotspot or Bluetooth to nearby devices running PURE","f9.h":"Self-hostable server","f9.p":"Run your own server with Docker or Cloudflare Tunnel","s1.h":"Talk <span class=\"grad\">your way</span>","s1.p":"Text, files, stickers, voice and video. Messages that fail while you are offline are sent automatically when you reconnect.","s2.h":"A little friend <span class=\"grad\">who says hi</span>","s2.p":"Pick from 16 pets, each with its own greeting sounds and moves","s3.h":"PURE AI","s3.p":"PURE AI can answer, translate and help with the context you choose","s4.h":"No internet? <span class=\"grad\">Still talk</span>","s4.p":"Send encrypted messages to people nearby over Wi-Fi or Bluetooth","soon.h2":"New in <span class=\"grad\">PURE 0.12</span>","soon.p":"Highlights from release 0.12.0","soon.badge":"New","soon1.h":"A refreshed PURE identity","soon1.p":"Updated app icon and website branding for a consistent PURE look","soon2.h":"AI video and voice updates","soon2.p":"Adds a server-side ComfyUI video workflow and improves voice fallback reliability","i.h2":"Install in <span class=\"grad\">3 steps</span>","i1.h":"Download the APK","i1.p":"Tap Download on a phone running Android 8 or later","i2.h":"Allow unknown sources","i2.p":"Settings › Apps › your browser › Install unknown apps › Allow","i3.h":"Install and sign in","i3.p":"Open the file, tap Install, then enter a PURE server address to get started","q.h2":"FAQ","q1.q":"Is PURE free?","q1.a":"The app is free to download. AI features are available when the connected PURE server has an AI service configured.","q2.q":"Why isn't it on Google Play?","q2.a":"It is a test build for now, distributed directly as an APK.","q3.q":"Is it safe?","q3.a":"Offline messages are encrypted, and images are never sent to the AI unless you choose to.","q4.q":"Do I need a server?","q4.a":"The app connects to a PURE server for chat and calls, and you can run your own. Nearby messaging over Wi-Fi/Bluetooth works without internet.","q5.q":"Does it support iPhone?","q5.a":"Not yet. Android 8 and later only for now.","fin.h":"Ready to talk?","fin.cta":"Download PURE 0.12.0","meta.title":"PURE — chat, voice & video calls by PureFxAi","meta.desc":"PURE is an Android app for chat, voice and video calls, 2D pets and an AI assistant, by PureFxAi","pop.badge":"Free for Android","pop.h":"Download PURE free","pop.p":"Chat, voice and video calls, 2D pets and an AI assistant in one app. Install straight from the APK.","pop.cta":"Download APK","pop.later":"Maybe later","pop.soon":"New in 0.12: refreshed PURE icon, AI video workflow and more reliable voice fallback","pop.close":"Close","pop.note":"Signed release build · Android 8+","pet.h2":"Your PURE cat <span class=\"grad\">comes alive</span>","pet.p":"A pet that says hi, reacts to incoming calls and grows with you","pet.idle":"Chilling","pet.jump":"Happy jump","pet.wave":"Says hi","pet.call":"Incoming call!","pet.sleep":"Nap time","pet.evolve":"Evolves & grows","nav.web":"Open web app","hero.web":"Use PURE on the web","nav.webUnavailable":"Web app unavailable","hero.webUnavailable":"Web app is not reachable"}};

diff --git a/guide.js b/guide.js
@@ -1,18 +1,18 @@
 // PURE web guide: offline knowledge base + optional live AI (server.json -> <url>/api/web-guide)
-(()=>{const APK='https://github.com/purefxaidev/purecall-web/releases/download/v0.10.1/PURE-0.10.1.apk';
+(()=>{const APK='https://github.com/pureaicom-gif/PURECALL/releases/download/v0.12.0/PURE-0.12.0.apk';
 const L=()=>document.documentElement.lang==='th'?'th':'en';
 const T={th:{title:'ถามผู้ช่วย PURE',ph:'พิมพ์คำถาม…',send:'ส่ง',close:'ปิด',hello:'สวัสดีครับ ผมช่วยแนะนำการติดตั้งและใช้งาน PURE ได้ เลือกหัวข้อด้านล่างหรือพิมพ์คำถามได้เลย',miss:'ขอโทษครับ ผมยังไม่มีคำตอบเรื่องนี้ ลองเลือกหัวข้อด้านล่างนะครับ',next:'ขั้นต่อไป',prev:'ย้อนกลับ',done:'เสร็จแล้ว',step:'ขั้นที่',live:'ตอบโดย AI ออนไลน์',offline:'คู่มือในตัว',soon:'มีแล้ว'},
 en:{title:'Ask PURE guide',ph:'Type a question…',send:'Send',close:'Close',hello:'Hi! I can help you install and use PURE. Pick a topic below or type a question.',miss:'Sorry, I don\'t have an answer for that yet. Try one of the topics below.',next:'Next',prev:'Back',done:'Done',step:'Step',live:'Answered by online AI',offline:'Built-in guide',soon:'Available'}};
 // KB: id -> {k:{th:[keywords],en:[...]}, chip:{th,en}, steps:[{th,en,img?}], soon?}
 const KB=[
 {id:'download',chip:{th:'ดาวน์โหลด',en:'Download'},k:['ดาวน์โหลด','โหลด','apk','download','get','ไฟล์'],steps:[
-{th:`เปิดหน้านี้บนมือถือ Android 8 ขึ้นไป แล้วกด <a href="${APK}">ดาวน์โหลด PURE-0.10.1.apk</a>`,en:`Open this page on an Android 8+ phone and tap <a href="${APK}">Download PURE-0.10.1.apk</a>`,img:'assets/img/hero.webp'},
+{th:`เปิดหน้านี้บนมือถือ Android 8 ขึ้นไป แล้วกด <a href="${APK}">ดาวน์โหลด PURE-0.12.0.apk</a>`,en:`Open this page on an Android 8+ phone and tap <a href="${APK}">Download PURE-0.12.0.apk</a>`,img:'assets/img/pure-hero.webp'},
 {th:'ถ้าเบราว์เซอร์เตือนว่าไฟล์อาจเป็นอันตราย ให้กด "ดาวน์โหลดต่อ" เพราะเป็นไฟล์ APK ที่ไม่ได้มาจาก Google Play',en:'If the browser warns the file may be harmful, tap "Download anyway". It warns because the APK is not from Google Play.'}]},
 {id:'unknown',chip:{th:'อนุญาตแหล่งที่ไม่รู้จัก',en:'Unknown sources'},k:['แหล่งที่ไม่รู้จัก','ไม่รู้จัก','อนุญาต','unknown','sources','permission','blocked','บล็อก'],steps:[
 {th:'เปิด ตั้งค่า › แอป › เลือกเบราว์เซอร์ที่ใช้ดาวน์โหลด (เช่น Chrome)',en:'Open Settings › Apps › choose the browser you downloaded with (e.g. Chrome)'},
 {th:'แตะ "ติดตั้งแอปที่ไม่รู้จัก" แล้วเปิด "อนุญาตจากแหล่งนี้" ชื่อเมนูอาจต่างกันเล็กน้อยตามยี่ห้อมือถือ',en:'Tap "Install unknown apps" and turn on "Allow from this source". Menu names vary slightly by phone brand.'}]},
 {id:'install',chip:{th:'ติดตั้ง',en:'Install'},k:['ติดตั้ง','install','setup','ลง'],steps:[
-{th:'เปิดไฟล์ PURE-0.10.1.apk จากแถบแจ้งเตือนหรือโฟลเดอร์ ดาวน์โหลด',en:'Open PURE-0.10.1.apk from the notification or your Downloads folder'},
+{th:'เปิดไฟล์ PURE-0.12.0.apk จากแถบแจ้งเตือนหรือโฟลเดอร์ ดาวน์โหลด',en:'Open PURE-0.12.0.apk from the notification or your Downloads folder'},
 {th:'กด "ติดตั้ง" รอสักครู่ แล้วกด "เปิด"',en:'Tap "Install", wait a moment, then tap "Open"'},
 {th:'ใส่ที่อยู่เซิร์ฟเวอร์ PURE ที่คุณได้รับ หรือเซิร์ฟเวอร์ที่คุณรันเอง',en:'Enter the PURE server address you were given, or one you run yourself'}]},
 {id:'signup',chip:{th:'สมัครสมาชิก',en:'Sign up'},k:['สมัคร','สมาชิก','บัญชี','ล็อกอิน','เข้าสู่ระบบ','sign up','signup','register','account','login'],steps:[

diff --git a/web-entry.js b/web-entry.js
@@ -1,0 +1,7 @@
+(()=>{
+  const links=[...document.querySelectorAll('[data-web-app]')];let state='loading';
+  const setState=next=>{state=next;const lang=document.documentElement.lang==='en'?'en':'th';for(const link of links){const label=link.querySelector('[data-web-label]');if(next==='ready'){link.href=window.PURE_WEB_APP_URL;link.classList.remove('is-loading');link.classList.add('is-ready');link.removeAttribute('aria-disabled');link.removeAttribute('title');if(label)label.textContent=label.dataset[lang]||label.dataset.th;}else{link.href='#web-app';link.classList.remove('is-ready');link.classList.toggle('is-loading',next==='loading');link.setAttribute('aria-disabled','true');link.title=next==='loading'?(lang==='en'?'Connecting to PURE server…':'กำลังเชื่อมต่อเซิร์ฟเวอร์ PURE…'):(lang==='en'?'Web app server is not available right now':'เซิร์ฟเวอร์เว็บแอปยังไม่พร้อม');if(label)label.textContent=next==='loading'?(lang==='en'?'Connecting…':'กำลังเชื่อมต่อ…'):(lang==='en'?'Web app unavailable':'เว็บแอปยังไม่พร้อม');}}};
+  for(const link of links)link.addEventListener('click',e=>{if(link.getAttribute('aria-disabled')==='true')e.preventDefault();});
+  new MutationObserver(()=>setState(state)).observe(document.documentElement,{attributes:true,attributeFilter:['lang']});setState('loading');
+  fetch('./server.json?live='+Date.now(),{cache:'no-store'}).then(r=>{if(!r.ok)throw new Error('server metadata unavailable');return r.json();}).then(data=>{const target=new URL(data.url),host=target.hostname.toLowerCase();if(target.protocol!=='https:'||!(host==='api.purefxai.store'||host.endsWith('.trycloudflare.com'))||target.username||target.password)throw new Error('server origin rejected');target.pathname='/';target.search='';target.hash='';window.PURE_WEB_APP_URL=target.href;setState('ready');}).catch(()=>setState('error'));
+})();

diff --git a/style.css b/style.css
@@ -124,3 +124,4 @@ body{padding-left:env(safe-area-inset-left);padding-right:env(safe-area-inset-ri
 }
 .promo-cta .btn{font-family:inherit}
 .soon-img img{object-position:top center}
+.feature-icon,.web-entry-icon,.download-icon{width:26px;height:26px;display:block;flex:none;fill:none;stroke:currentColor;stroke-width:1.65;stroke-linecap:round;stroke-linejoin:round}.card .feature-icon{width:34px;height:34px;color:var(--accent,#6ff0b0);margin:0 0 16px}.web-app-link.is-loading{opacity:.55;cursor:wait}.web-app-link.is-ready{opacity:1;cursor:pointer}.cta .web-entry-icon,.cta .download-icon{width:20px;height:20px}.nav-r .web-app-link{display:inline-flex;align-items:center;gap:8px}

diff --git a/README.md b/README.md
@@ -1,5 +1,7 @@
 # purecall-web
-Landing page for PURE by PureFxAi → https://call.purefxai.store
+Landing page and browser entry for PURE by PureFxAi → https://call.purefxai.store
+
+The page fetches `server.json` so the “Open web app” buttons point to the current HTTPS PURE server. APK buttons download the latest signed release. Keep `version.json` in sync with each release.
 
 Drop images into assets/img/ (hero.png, chat.png, pet.png, ai.png, nearby.png).
 
